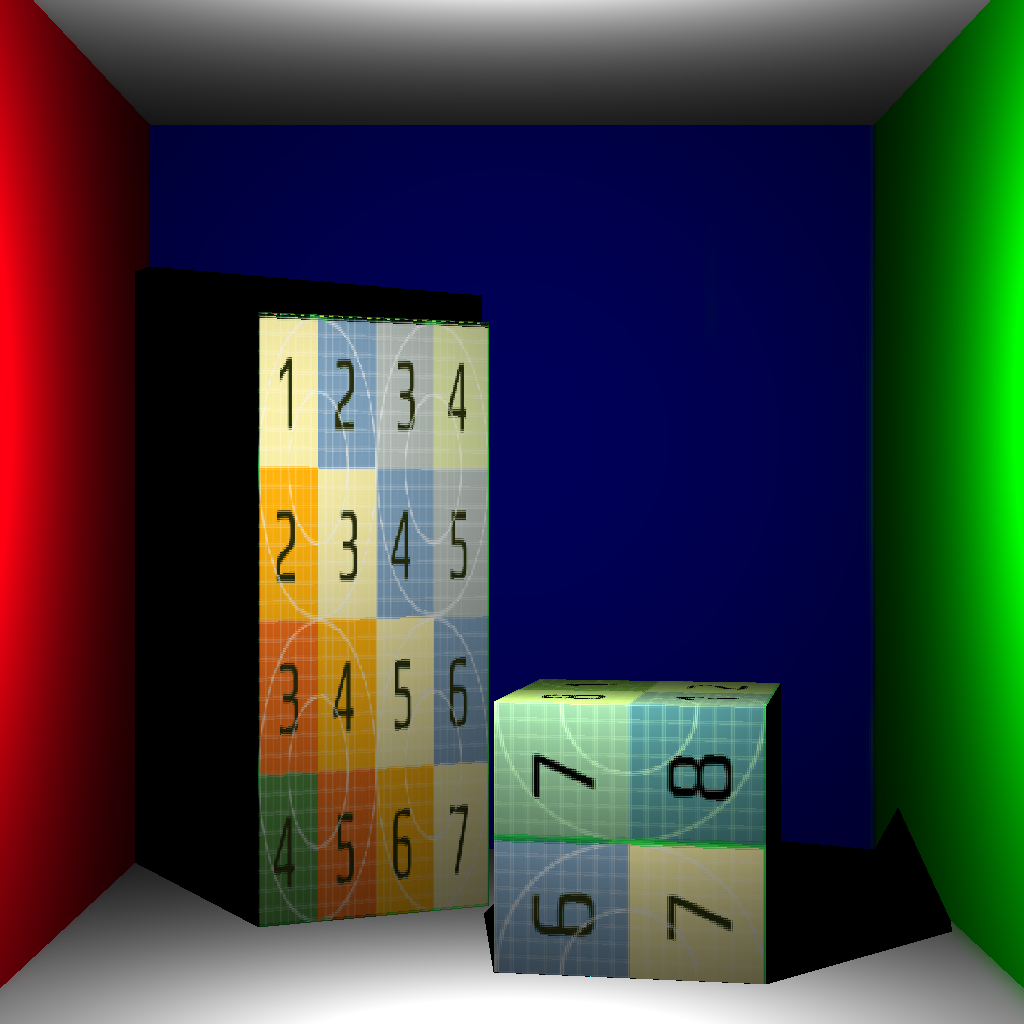
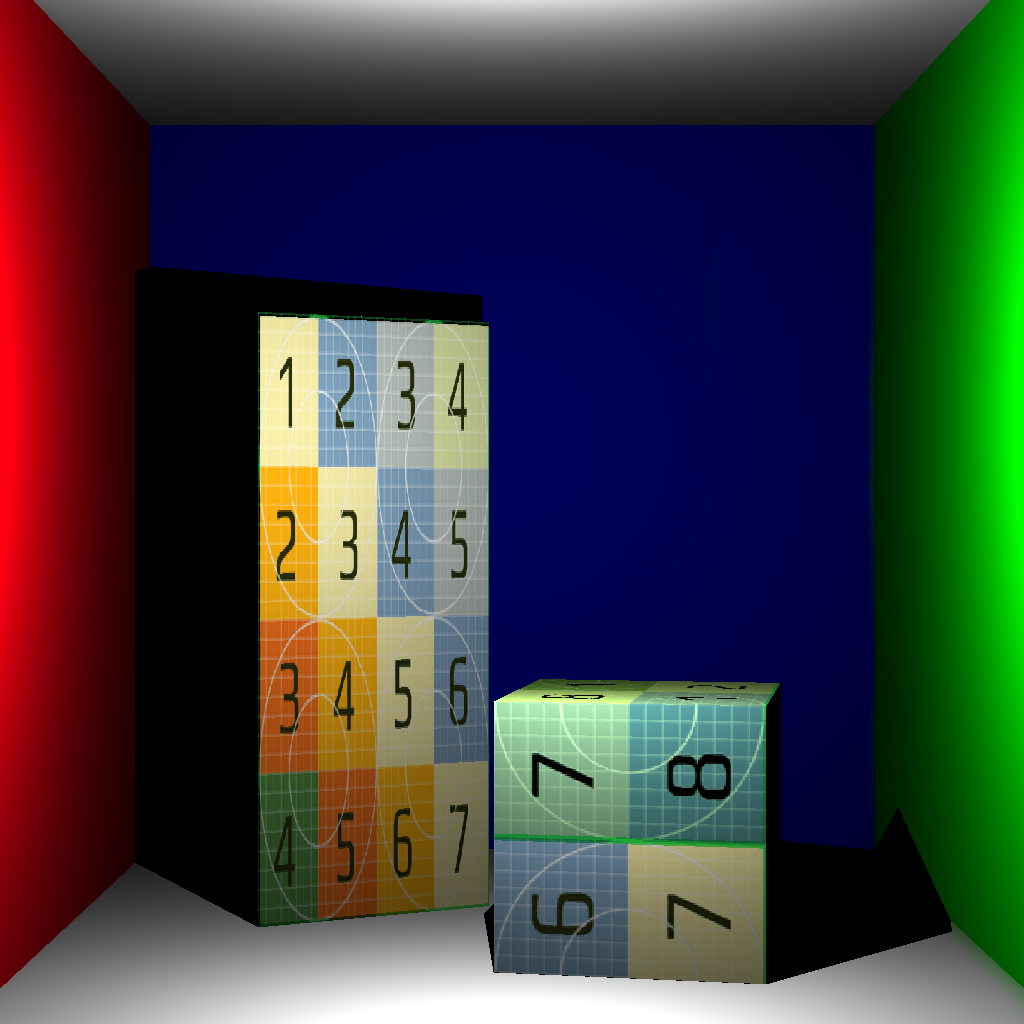
fix: bilinear edge cases

diff --git a/src/texture.cpp b/src/texture.cpp
@@ -248,15 +248,38 @@ Vector3f Texture::bilinearFetch(Vector2f uv)
     */
     uv.x *= resolution.x;
     uv.y *= resolution.y;
-    Vector2f tl{std::floor(uv[0]), std::floor(uv[1])};
-    std::array<Vector2f, 4> p{tl, {tl.x + 1, tl.y}, {tl.x, tl.y + 1}, {tl.x + 1, tl.y + 1}};
-    std::array<Vector3f, 4> c{};
-    std::transform(p.begin(), p.end(), c.begin(), [this](const Vector2f &pos) {
-        return Vector3f{loadPixelColor(static_cast<int>(pos.x), static_cast<int>(pos.y))};
-    });
+    if (resolution.x == std::floor(resolution.x) && resolution.y == std::floor(resolution.y))
+    {
+        return loadPixelColor(uv.x, uv.y);
+    }
+    else if (uv.x == std::floor(uv.x))
+    {
+        Vector2f up{uv.x, std::floor(uv.y)};
+        Vector2f down{uv.x, std::floor(uv.y + 1)};
+        Vector3f color_up{loadPixelColor(up.x, up.y)};
+        Vector3f color_down{loadPixelColor(down.x, down.y)};
+        return (uv.y - up.y) * color_up + (down.y - uv.y) * color_down;
+    }
+    else if (uv.y == std::floor(uv.y))
+    {
+        Vector2f left{std::floor(uv.x), uv.y};
+        Vector2f right{std::floor(uv.x + 1), uv.y};
+        Vector3f color_left{loadPixelColor(left.x, left.y)};
+        Vector3f color_right{loadPixelColor(right.x, right.y)};
+        return (uv.x - left.x) * color_left + (right.x - uv.x) * color_right;
+    }
+    else
+    {
+        Vector2f tl{std::floor(uv[0]), std::floor(uv[1])};
+        std::array<Vector2f, 4> p{tl, {tl.x + 1, tl.y}, {tl.x, tl.y + 1}, {tl.x + 1, tl.y + 1}};
+        std::array<Vector3f, 4> c{};
+        std::transform(p.begin(), p.end(), c.begin(), [this](const Vector2f &pos) {
+            return Vector3f{loadPixelColor(static_cast<int>(pos.x), static_cast<int>(pos.y))};
+        });
 
-    return ((uv.y - p[0].y) * ((uv.x - p[0].x) * c[0] + (p[1].x - uv.x) * c[1]) +
-            (p[2].y - uv.y) * ((uv.x - p[2].x) * c[2] + (p[3].x - uv.x) * c[3]));
+        return ((uv.y - p[0].y) * ((uv.x - p[0].x) * c[0] + (p[1].x - uv.x) * c[1]) +
+                (p[2].y - uv.y) * ((uv.x - p[2].x) * c[2] + (p[3].x - uv.x) * c[3]));
+    }
 }
 
 Vector3f Texture::fetch(Tri tri, Vector3f p, int interpolation_variant)
